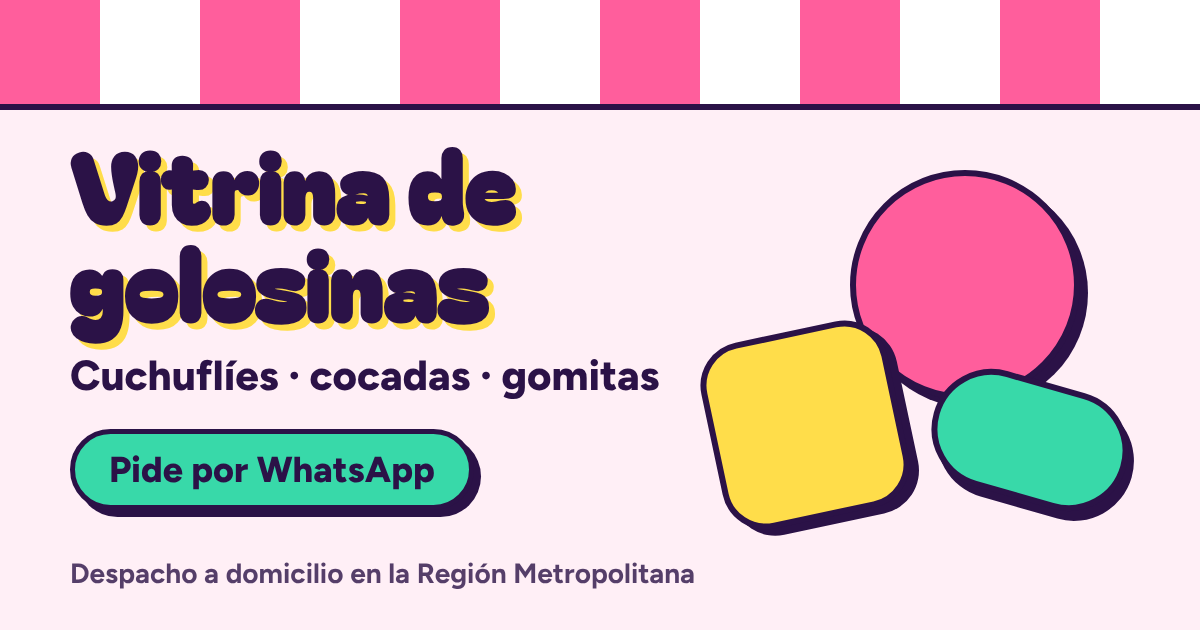
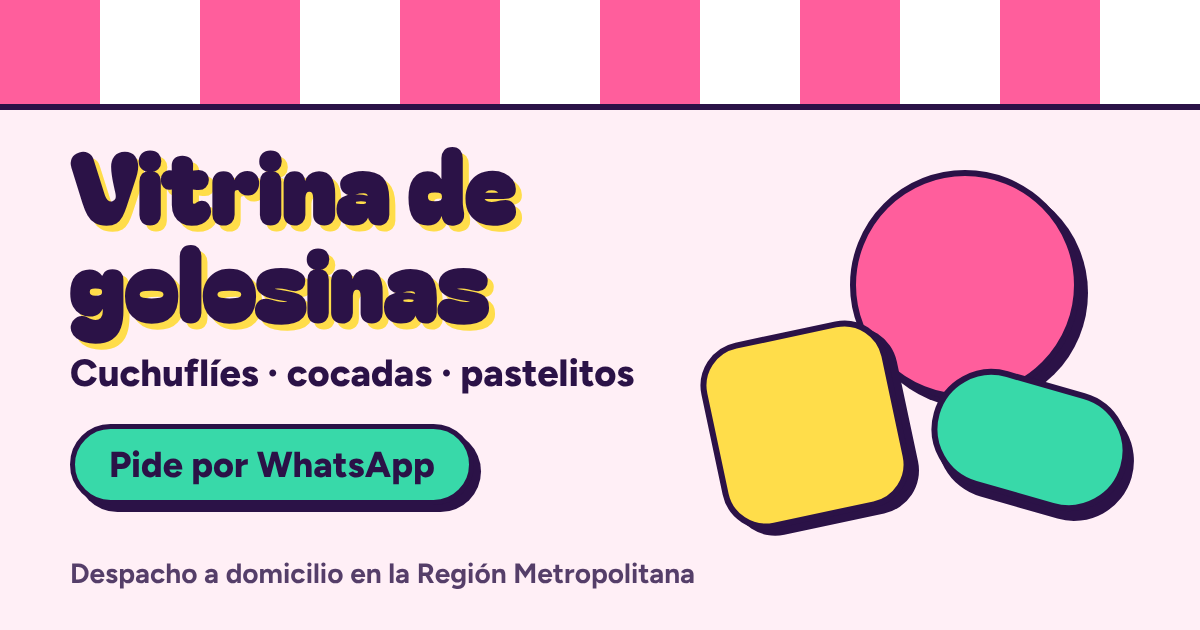
Noveno commit: cambiar gomitas por pastelitos

Changed region(s): [[0.0617, 0.6635, 0.4008, 0.8444], [0.0617, 0.573, 0.555, 0.6333]]

diff --git a/index.html b/index.html
@@ -7,7 +7,7 @@
     <link rel="icon" type="image/svg+xml" href="/favicon.svg" />
 
     <!-- ===== SEO: lo que ve Google ===== -->
-    <title>Golosinas a domicilio en Santiago | Cuchuflíes, cocadas y gomitas</title>
+    <title>Golosinas a domicilio en Santiago | Cuchuflíes, cocadas y pastelitos</title>
     <meta
       name="description"
       content="Cuchuflíes, cocadas, pastelitos y más golosinas. Arma tu carro y pide por WhatsApp. Despacho a domicilio en la Región Metropolitana."
@@ -20,12 +20,12 @@
     <meta property="og:locale" content="es_CL" />
     <meta property="og:site_name" content="Vitrina de golosinas" />
     <meta property="og:title" content="Golosinas a domicilio en Santiago" />
-    <meta property="og:description" content="Cuchuflíes, cocadas y gomitas. Arma tu carro y pide por WhatsApp." />
+    <meta property="og:description" content="Cuchuflíes, cocadas y pastelitos. Arma tu carro y pide por WhatsApp." />
     <meta property="og:url" content="https://vitrina-golosinas.dan-torresmedina.workers.dev/" />
     <meta property="og:image" content="https://vitrina-golosinas.dan-torresmedina.workers.dev/vista-previa.png" />
     <meta property="og:image:width" content="1200" />
     <meta property="og:image:height" content="630" />
-    <meta property="og:image:alt" content="Vitrina de golosinas: cuchuflíes, cocadas y gomitas. Pide por WhatsApp." />
+    <meta property="og:image:alt" content="Vitrina de golosinas: cuchuflíes, cocadas y pastelitos. Pide por WhatsApp." />
     <meta name="twitter:card" content="summary_large_image" />
 
     <!-- ===== Datos estructurados: le explican a Google qué es el negocio ===== -->
@@ -34,7 +34,7 @@
         "@context": "https://schema.org",
         "@type": "Store",
         "name": "Vitrina de golosinas",
-        "description": "Cuchuflíes, cocadas, gomitas y más golosinas. Pedidos por WhatsApp con despacho a domicilio.",
+        "description": "Cuchuflíes, cocadas, pastelitos y más golosinas. Pedidos por WhatsApp con despacho a domicilio.",
         "url": "https://vitrina-golosinas.dan-torresmedina.workers.dev/",
         "image": "https://vitrina-golosinas.dan-torresmedina.workers.dev/vista-previa.png",
         "areaServed": {

diff --git a/src/utilidades/datosDemo.js b/src/utilidades/datosDemo.js
@@ -15,7 +15,7 @@ export const PRODUCTOS_DEMO = [
   { id: 'd3', nombre: 'Caja de 6 cuchuflíes', descripcion: 'Mezcla de sabores para compartir.', categoria: 'Cuchuflíes', imagenUrl: null, precio: 3990 },
   { id: 'd4', nombre: 'Cocada tradicional', descripcion: 'Coco rallado y azúcar, receta de la abuela.', categoria: 'Cocadas', imagenUrl: null, precio: 1200 },
   { id: 'd5', nombre: 'Cocada de manjar', descripcion: 'Con un corazón de manjar.', categoria: 'Cocadas', imagenUrl: null, precio: 1400 },
-  { id: 'd6', nombre: 'Gomitas ositos 200 g', descripcion: 'Frutales y blanditas.', categoria: 'Gomitas', imagenUrl: null, precio: 2490 },
-  { id: 'd7', nombre: 'Gomitas ácidas 150 g', descripcion: 'Con cubierta de azúcar ácida.', categoria: 'Gomitas', imagenUrl: null, precio: 2290 },
-  { id: 'd8', nombre: 'Pack degustación', descripcion: '2 cuchuflíes, 1 cocada y una bolsita de gomitas.', categoria: 'Packs', imagenUrl: null, precio: 5490 },
+  { id: 'd6', nombre: 'Pastelito de manjar', descripcion: 'Masa suave rellena de manjar.', categoria: 'Pastelitos', imagenUrl: null, precio: 1300 },
+  { id: 'd7', nombre: 'Pastelito de frutilla', descripcion: 'Con crema y frutilla.', categoria: 'Pastelitos', imagenUrl: null, precio: 1500 },
+  { id: 'd8', nombre: 'Pack degustación', descripcion: '2 cuchuflíes, 1 cocada y 1 pastelito.', categoria: 'Packs', imagenUrl: null, precio: 5490 },
 ];

diff --git a/src/paginas/Vitrina.jsx b/src/paginas/Vitrina.jsx
@@ -17,7 +17,7 @@ import Carro from '../componentes/Carro.jsx';
 const EMOJIS_POR_CATEGORIA = [
   [/cuchufl/i, '🥖'],
   [/cocad/i, '🥥'],
-  [/gomit|gomas/i, '🐻'],
+  [/pastel/i, '🧁'],
   [/choco/i, '🍫'],
   [/pack|caja|combo/i, '🎁'],
 ];
@@ -150,7 +150,7 @@ export default function Vitrina() {
             </p>
           </div>
           <div className="sello" aria-hidden="true">
-            <span>Pide por</span>
+            <span>Pedí por</span>
             <strong>WhatsApp</strong>
           </div>
         </section>

diff --git a/src/admin/PestanaProductos.jsx b/src/admin/PestanaProductos.jsx
@@ -18,7 +18,7 @@ import {
 import { usarCarga } from './usarCarga';
 
 // Categorías sugeridas al escribir (además de las que ya existan en tus productos).
-const CATEGORIAS_SUGERIDAS = ['Cuchuflíes', 'Cocadas', 'Gomitas', 'Packs'];
+const CATEGORIAS_SUGERIDAS = ['Cuchuflíes', 'Cocadas', 'Pastelitos', 'Packs'];
 
 /** Formulario para crear un producto nuevo o editar uno existente. */
 function FormularioProducto({ producto, categorias, alGuardar, alCancelar }) {

diff --git a/README.md b/README.md
@@ -1,6 +1,6 @@
 # Vitrina de golosinas
 
-Vitrina web para cuchuflíes, cocadas y gomitas: los clientes ven los productos, arman un carro y el pedido te llega por WhatsApp. Incluye un panel privado (`/admin`) para subir productos con foto y precio, y un módulo de compras que calcula el precio de venta.
+Vitrina web para cuchuflíes, cocadas y pastelitos: los clientes ven los productos, arman un carro y el pedido te llega por WhatsApp. Incluye un panel privado (`/admin`) para subir productos con foto y precio, y un módulo de compras que calcula el precio de venta.
 
 **Tecnologías:** React + Vite (JavaScript) · Supabase (base de datos, login e imágenes) · Cloudflare (hosting gratis).
 
